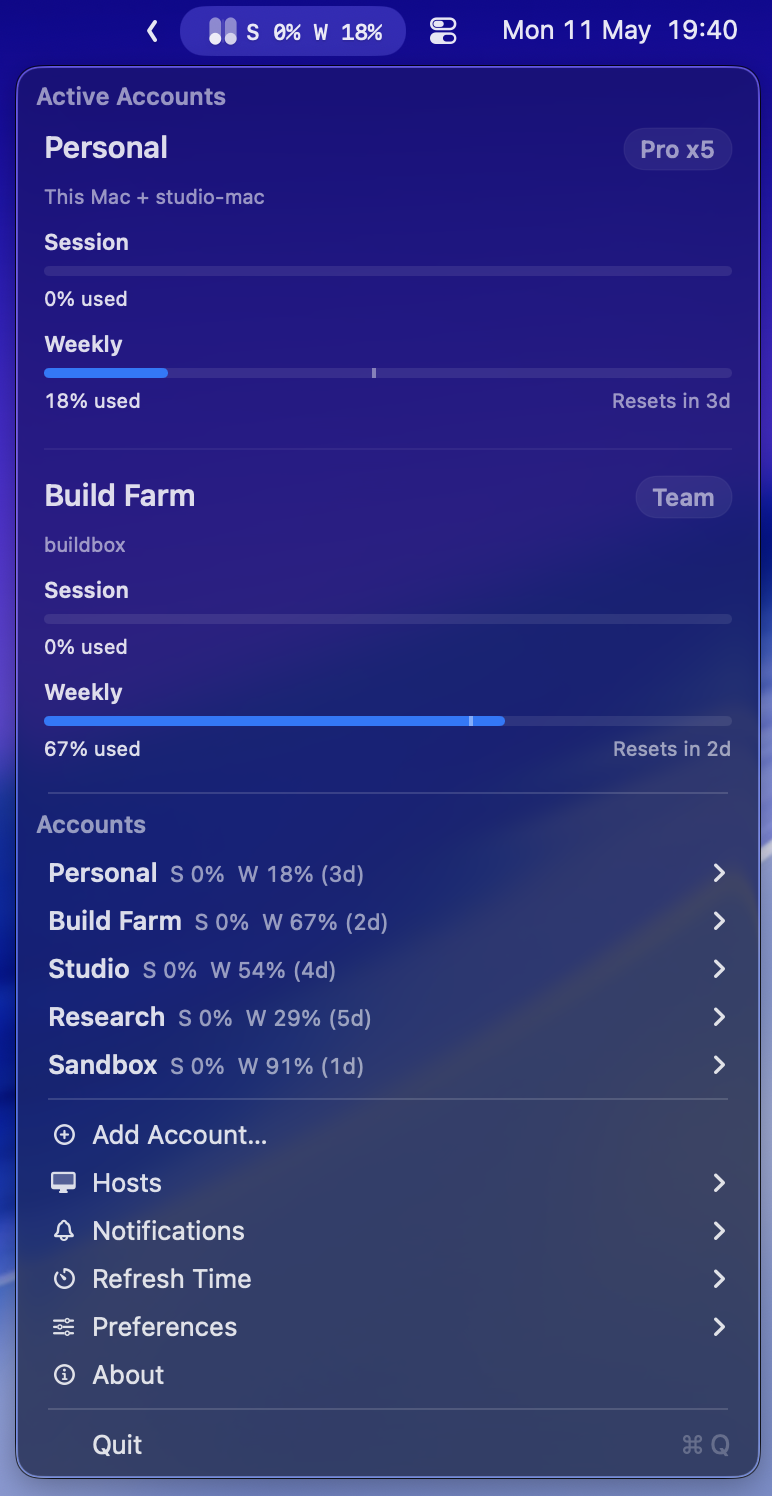
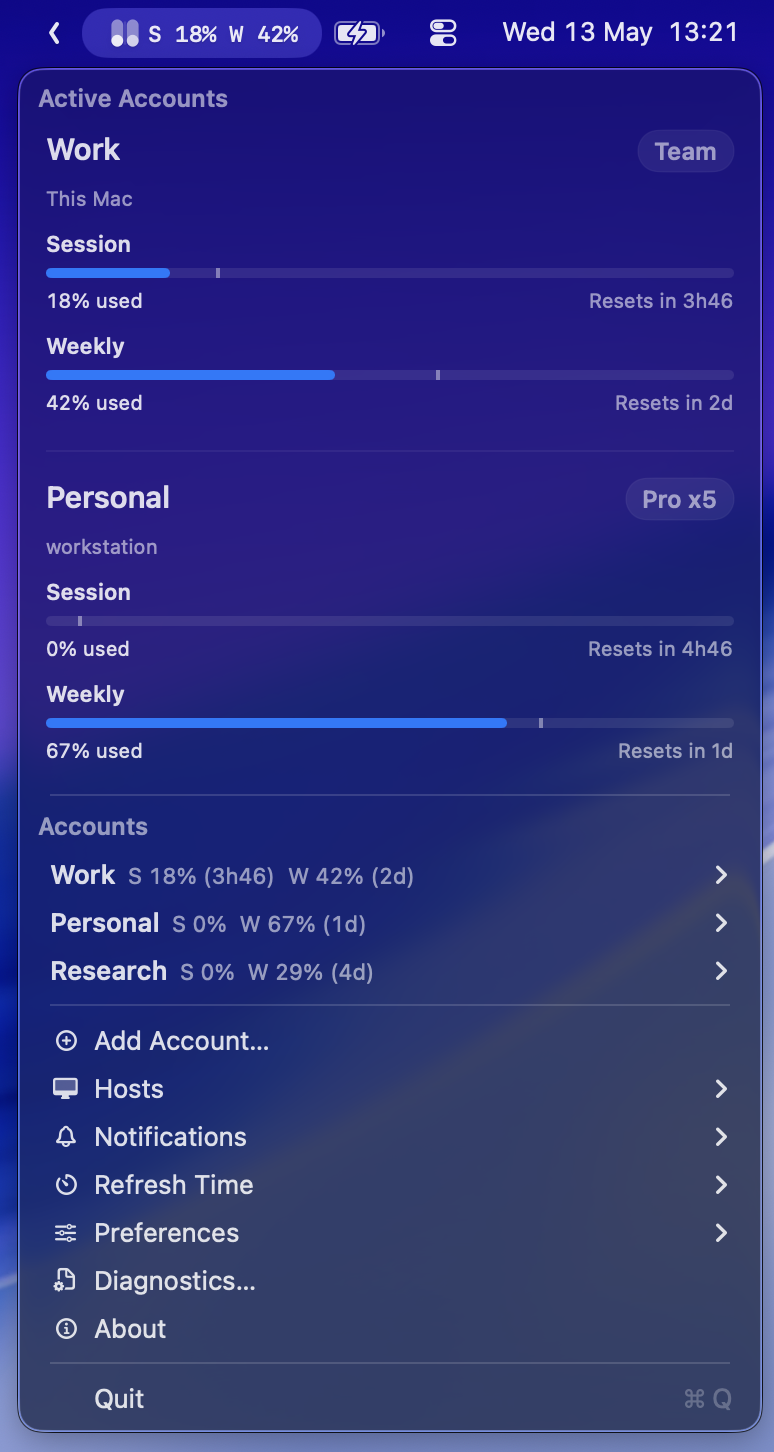
Polish add account flow and README screenshots

diff --git a/Sources/Features/MenuBar/Alert/SystemAlertPresenter.swift b/Sources/Features/MenuBar/Alert/SystemAlertPresenter.swift
@@ -97,11 +97,19 @@ final class SystemAlertPresenter {
             stack.addArrangedSubview(statusLabel)
         }
 
-        let container = NSView(frame: NSRect(x: 0, y: 0, width: 320, height: max(56, stack.fittingSize.height)))
+        let horizontalInset: CGFloat = 4
+        let fieldWidth: CGFloat = 340
+        let container = NSView(
+            frame: NSRect(
+                x: 0,
+                y: 0,
+                width: fieldWidth + horizontalInset * 2,
+                height: max(56, stack.fittingSize.height)
+            )
+        )
         container.addSubview(stack)
         NSLayoutConstraint.activate([
-            stack.leadingAnchor.constraint(equalTo: container.leadingAnchor),
-            stack.trailingAnchor.constraint(equalTo: container.trailingAnchor),
+            stack.leadingAnchor.constraint(equalTo: container.leadingAnchor, constant: horizontalInset),
             stack.topAnchor.constraint(equalTo: container.topAnchor),
             stack.bottomAnchor.constraint(equalTo: container.bottomAnchor)
         ])
@@ -115,7 +123,7 @@ final class SystemAlertPresenter {
     private func configureAlertTextField(_ field: NSTextField) {
         field.translatesAutoresizingMaskIntoConstraints = false
         NSLayoutConstraint.activate([
-            field.widthAnchor.constraint(equalToConstant: 320),
+            field.widthAnchor.constraint(equalToConstant: 340),
             field.heightAnchor.constraint(equalToConstant: 26)
         ])
     }

diff --git a/Tests/Accounts/AccountActionFlowTests.swift b/Tests/Accounts/AccountActionFlowTests.swift
@@ -45,6 +45,19 @@ struct AccountActionFlowTests {
     }
 
     @Test
+    func cancelledSignInCompletionDoesNotShowGenericError() {
+        let step = AccountActionFlow().resolveAddAccountCompletion(
+            .failed(CancellationError()),
+            retryName: "Business 2"
+        )
+
+        guard case .none = step else {
+            Issue.record("Expected cancellation to end the Add Account flow silently")
+            return
+        }
+    }
+
+    @Test
     func expiredSignInCodeOffersRetryWithOriginalName() {
         let step = AccountActionFlow().resolveAddAccountStartFailure(
             IsolatedCodexLoginError.authCaptureTimedOut,

diff --git a/Sources/Features/MenuBar/Alert/CodexSignInPanel.swift b/Sources/Features/MenuBar/Alert/CodexSignInPanel.swift
@@ -76,7 +76,11 @@ final class CodexSignInPanelController: NSObject, NSWindowDelegate {
             case .success(let account):
                 self.finish(with: .completed(account))
             case .failure(let error):
-                self.finish(with: .failed(error))
+                if error is CancellationError {
+                    self.finish(with: .cancelled)
+                } else {
+                    self.finish(with: .failed(error))
+                }
             }
         }
     }
@@ -95,8 +99,8 @@ final class CodexSignInPanelController: NSObject, NSWindowDelegate {
     }
 
     private func cancel() {
-        onCancel()
         finish(with: .cancelled)
+        onCancel()
     }
 
     private func finish(with result: MenuBarAddAccountSignInPanelResult) {

diff --git a/Sources/Features/Accounts/Application/AccountActionFlow.swift b/Sources/Features/Accounts/Application/AccountActionFlow.swift
@@ -43,6 +43,9 @@ struct AccountActionFlow {
         case .completed(let account):
             return .offerLocalSwitch(account)
         case .failed(let error):
+            if error is CancellationError {
+                return .none
+            }
             return .handleFailure(resolveAddAccountFailure(error, retryName: retryName))
         case .cancelled:
             return .none

diff --git a/README.md b/README.md
@@ -19,6 +19,11 @@
   <img src="docs/assets/codexpill-menu.png" width="360" alt="CodexPill menu showing active accounts, usage bars, saved accounts, and app controls">
 </p>
 
+<p align="center">
+  <img src="docs/assets/codexpill-account-actions.png" width="420" alt="CodexPill account actions submenu">
+  <img src="docs/assets/codexpill-preferences.png" width="340" alt="CodexPill preferences submenu">
+</p>
+
 ## What It Does
 
 - Keep Codex session and weekly limits visible from the menu bar.
@@ -26,6 +31,13 @@
 - Add accounts through an isolated sign-in flow that does not switch immediately.
 - Use selected saved accounts on SSH hosts you configure.
 - Stay local-first: no cloud sync, no hidden browser automation, no account data upload.
+
+## Screenshots
+
+<p align="center">
+  <img src="docs/assets/codexpill-add-account.png" width="380" alt="CodexPill Add Account dialog">
+  <img src="docs/assets/codexpill-add-host.png" width="520" alt="CodexPill Add Remote Host dialog">
+</p>
 
 ## Install
 